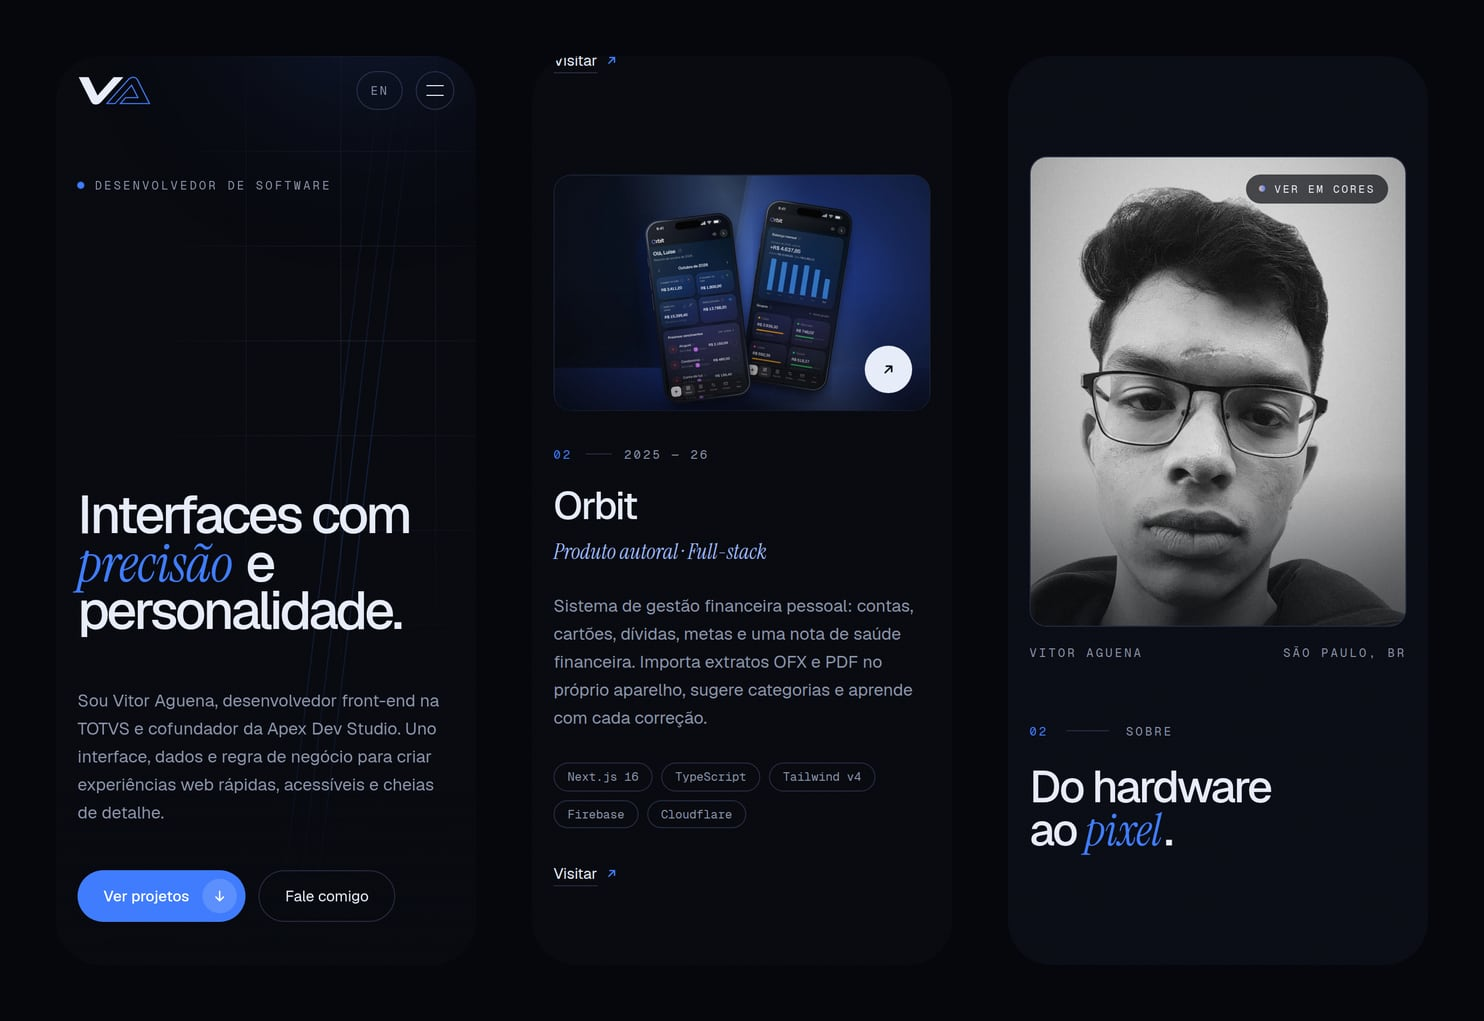
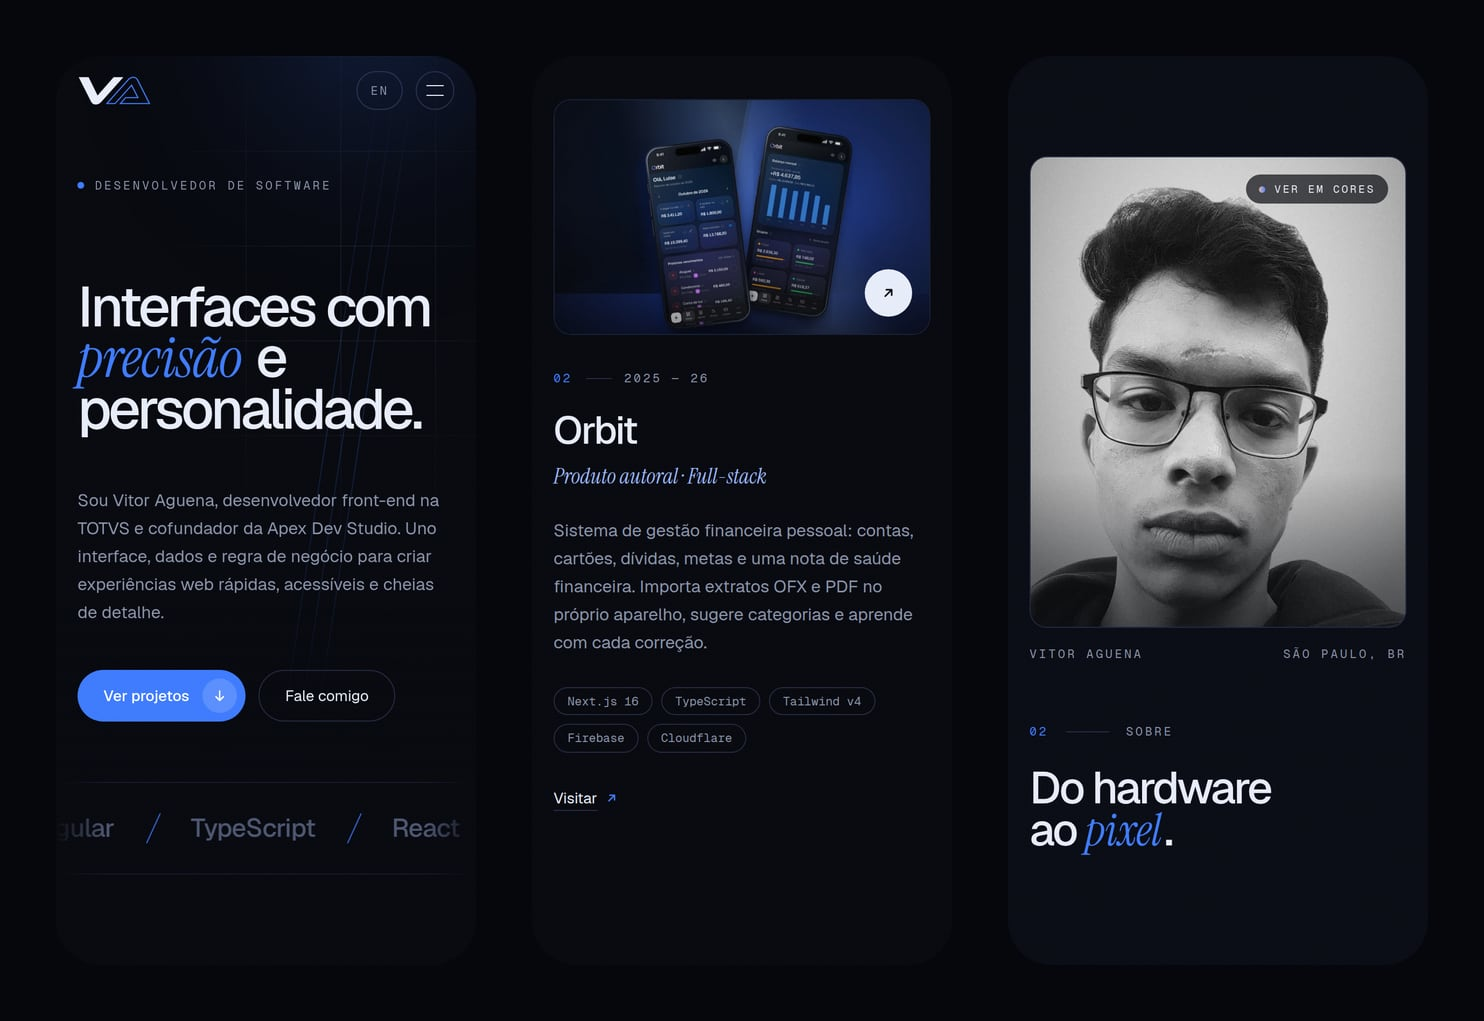
refactor: readme and mobile adjustments

diff --git a/src/components/sections/hero.tsx b/src/components/sections/hero.tsx
@@ -11,10 +11,10 @@ export function Hero({ dict, lang }: { dict: Dictionary; lang: string }) {
   const t = dict.hero;
 
   return (
-    <Spotlight className="group/spot relative isolate flex min-h-svh flex-col overflow-hidden">
+    <Spotlight className="group/spot relative isolate flex flex-col overflow-hidden md:min-h-svh">
       <HeroBackdrop />
 
-      <ScrollFade className="relative mx-auto flex w-full max-w-[1440px] flex-1 flex-col px-5 pb-10 pt-28 md:px-10 md:pb-12 md:pt-36">
+      <ScrollFade className="relative mx-auto flex w-full max-w-[1440px] flex-1 flex-col px-5 pb-14 pt-28 md:px-10 md:pb-12 md:pt-36">
         <div className="flex animate-fade items-center justify-between font-mono text-[11px] uppercase tracking-[0.2em] text-muted">
           <p className="flex items-center gap-2.5">
             <span className="size-1.5 animate-pulse-dot rounded-full bg-blue" />
@@ -29,7 +29,7 @@ export function Hero({ dict, lang }: { dict: Dictionary; lang: string }) {
           as="h1"
           trigger="load"
           lines={t.lines}
-          className="mt-auto pt-16 text-[clamp(3.1rem,12.5vw,10.5rem)] font-medium leading-[0.9] tracking-[-0.055em]"
+          className="mt-20 text-[13.5vw] font-medium leading-[0.9] tracking-[-0.055em] md:mt-auto md:pt-16 md:text-[clamp(3.1rem,12.5vw,10.5rem)]"
         />
 
         <div className="mt-12 grid gap-10 md:mt-16 md:grid-cols-12 md:items-end">

diff --git a/README.md b/README.md
@@ -83,65 +83,6 @@ O site foi construído como uma **experiência**: cada rolagem, cada passagem do
 
 ---
 
-## 📁 Estrutura
-
-```
-src/
-├── app/
-│   ├── (pt)/              Rota "/" em português
-│   ├── (en)/en/           Rota "/en" em inglês
-│   ├── global-not-found   Página 404
-│   └── globals.css        Tokens da identidade e animações
-├── components/
-│   ├── sections/          Hero, Projetos, Sobre, Trajetória, Contato e Rodapé
-│   ├── motion/            Abertura, cursor, Lenis, parallax, lente do retrato…
-│   └── logo.tsx           Logo completa e compacta "VA" em SVG
-├── content/site.ts        Todo o conteúdo do site (PT e EN)
-└── lib/metadata.ts        SEO e Open Graph
-public/
-├── work/                  Capas dos projetos
-├── me/                    Retrato (P&B e colorido)
-└── cv/                    Currículo em PDF
-```
-
----
-
-## 💻 Rodando localmente
-
-```bash
-git clone git@github.com:vitoraguena17/personal-portfolio-v2.git
-cd personal-portfolio-v2
-npm install
-npm run dev
-```
-
-Abra [http://localhost:3000](http://localhost:3000) para o português e [http://localhost:3000/en](http://localhost:3000/en) para o inglês.
-
-| Comando | O que faz |
-|---|---|
-| `npm run dev` | Ambiente de desenvolvimento |
-| `npm run build` | Build de produção |
-| `npm start` | Serve o build de produção |
-| `npm run lint` | Verifica o código com ESLint |
-
-> 💡 A abertura aparece uma vez por sessão. Para vê-la de novo, abra uma aba anônima ou limpe o `sessionStorage` (chave `va-intro`).
-> Em produção, defina `NEXT_PUBLIC_SITE_URL` com o domínio final, usado nas URLs canônicas e no Open Graph.
-
----
-
-## ✏ Onde mexer
-
-| O quê | Onde |
-|---|---|
-| Textos, projetos, experiências e links | `src/content/site.ts` |
-| Cores, fontes e animações | `src/app/globals.css` (bloco `@theme`) |
-| Logo | `src/components/logo.tsx` |
-| Interações (abertura, cursor, scroll, parallax) | `src/components/motion/` |
-| Ícone da aba | `src/app/icon.svg` e `src/app/apple-icon.png` |
-| Imagens dos projetos, retrato e currículo | `public/work/`, `public/me/` e `public/cv/` |
-
----
-
 ## ⚖ Créditos
 
 O mockup da Orbit usa **dados fictícios**, gerados num ambiente de demonstração. Marcas e imagens dos projetos de terceiros pertencem aos seus respectivos detentores.
